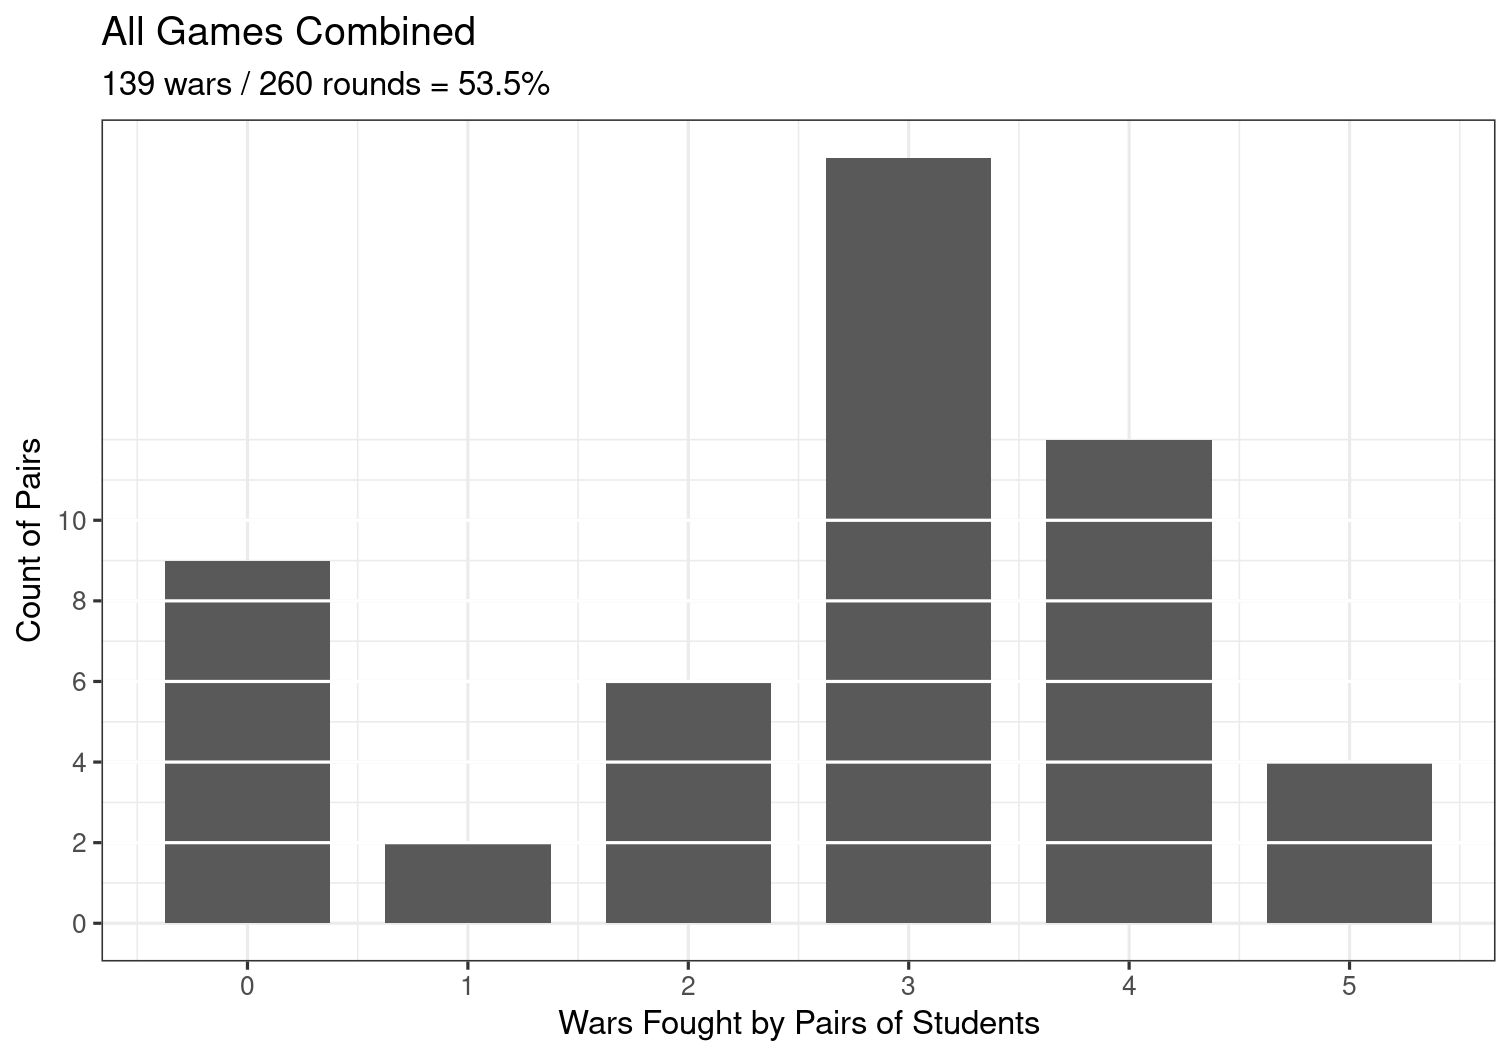
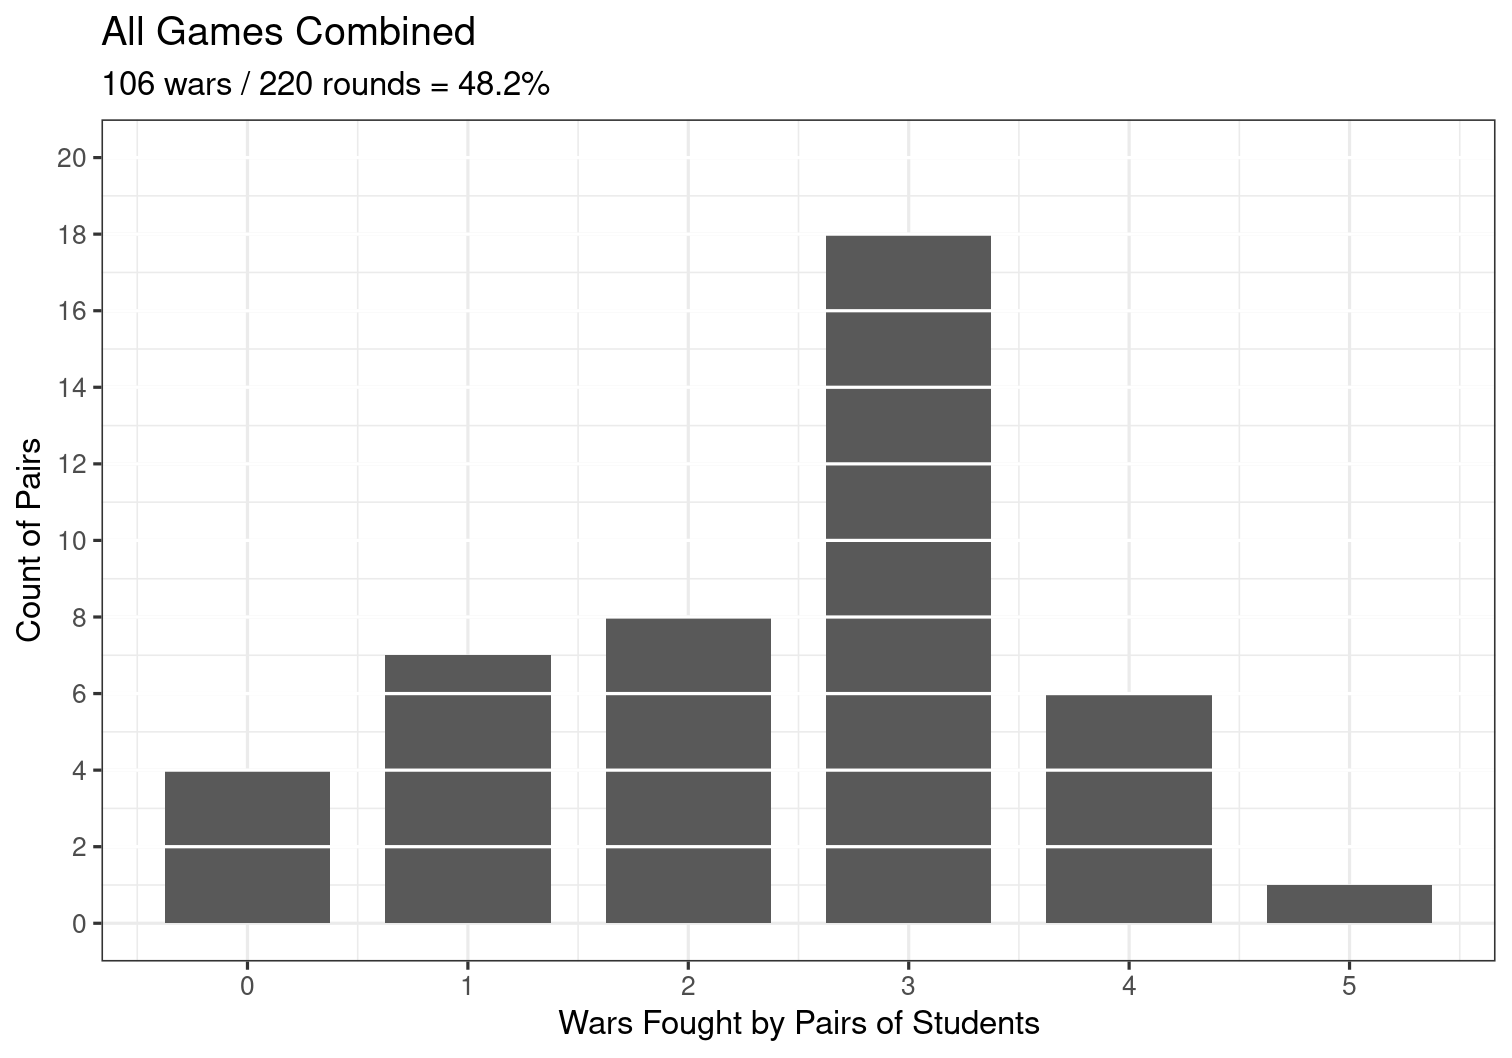
Update penny war results

diff --git a/06-2-Bargaining_Model_War.html b/06-2-Bargaining_Model_War.html
@@ -82,13 +82,13 @@ Here are the overall results from our simulation.
 
 ### So, what do we see here in overall results?
 
-- 9 pairs fought zero wars in their five rounds together.
+- 4 pairs fought zero wars in their five rounds together.
 
-- 4 pairs fought in all five rounds they played together.
+- 1 pairs fought in all five rounds they played together.
 
-- Out of 52 pairings and 260 possible conflicts we observed 139 wars.
+- Out of 44 pairings and 220 possible conflicts we observed 106 wars.
 
-- So, 53.5% of the time your conflicts led to war.
+- So, 48.2% of the time your conflicts led to war.
 
 
 
@@ -261,7 +261,7 @@ Here are the results for just version 1 of the game.
 # A tibble: 1 × 5
   Version  pairings  wars possible proportion
   &lt;chr&gt;       &lt;int&gt; &lt;dbl&gt;    &lt;dbl&gt;      &lt;dbl&gt;
-1 Version1       13    41       65      0.631
+1 Version1       11    34       55      0.618
 ```
 
 &lt;br&gt;
@@ -305,27 +305,27 @@ class: middle
 &lt;tbody&gt;
   &lt;tr&gt;
    &lt;td style="text-align:left;"&gt; High Uncertainty (All Hidden) &lt;/td&gt;
-   &lt;td style="text-align:right;"&gt; 41 &lt;/td&gt;
-   &lt;td style="text-align:right;"&gt; 65 &lt;/td&gt;
-   &lt;td style="text-align:right;"&gt; 0.6307692 &lt;/td&gt;
+   &lt;td style="text-align:right;"&gt; 34 &lt;/td&gt;
+   &lt;td style="text-align:right;"&gt; 55 &lt;/td&gt;
+   &lt;td style="text-align:right;"&gt; 0.62 &lt;/td&gt;
   &lt;/tr&gt;
   &lt;tr&gt;
    &lt;td style="text-align:left;"&gt; Medium Uncertainty (Most Hidden) &lt;/td&gt;
-   &lt;td style="text-align:right;"&gt; 45 &lt;/td&gt;
-   &lt;td style="text-align:right;"&gt; 65 &lt;/td&gt;
-   &lt;td style="text-align:right;"&gt; 0.6923077 &lt;/td&gt;
+   &lt;td style="text-align:right;"&gt; 35 &lt;/td&gt;
+   &lt;td style="text-align:right;"&gt; 55 &lt;/td&gt;
+   &lt;td style="text-align:right;"&gt; 0.64 &lt;/td&gt;
   &lt;/tr&gt;
   &lt;tr&gt;
    &lt;td style="text-align:left;"&gt; Low Uncertainty (One Hidden) &lt;/td&gt;
-   &lt;td style="text-align:right;"&gt; 39 &lt;/td&gt;
-   &lt;td style="text-align:right;"&gt; 65 &lt;/td&gt;
-   &lt;td style="text-align:right;"&gt; 0.6000000 &lt;/td&gt;
+   &lt;td style="text-align:right;"&gt; 23 &lt;/td&gt;
+   &lt;td style="text-align:right;"&gt; 55 &lt;/td&gt;
+   &lt;td style="text-align:right;"&gt; 0.42 &lt;/td&gt;
   &lt;/tr&gt;
   &lt;tr&gt;
    &lt;td style="text-align:left;"&gt; No Uncertainty &lt;/td&gt;
    &lt;td style="text-align:right;"&gt; 14 &lt;/td&gt;
-   &lt;td style="text-align:right;"&gt; 65 &lt;/td&gt;
-   &lt;td style="text-align:right;"&gt; 0.2153846 &lt;/td&gt;
+   &lt;td style="text-align:right;"&gt; 55 &lt;/td&gt;
+   &lt;td style="text-align:right;"&gt; 0.25 &lt;/td&gt;
   &lt;/tr&gt;
 &lt;/tbody&gt;
 &lt;/table&gt;
@@ -345,10 +345,10 @@ Now take a step back.
 # A tibble: 4 × 5
   Version  pairings  wars possible proportion
   &lt;chr&gt;       &lt;int&gt; &lt;dbl&gt;    &lt;dbl&gt;      &lt;dbl&gt;
-1 Version1       13    41       65      0.631
-2 Version2       13    45       65      0.692
-3 Version3       13    39       65      0.6  
-4 Version4       13    14       65      0.215
+1 Version1       11    34       55      0.618
+2 Version2       11    35       55      0.636
+3 Version3       11    23       55      0.418
+4 Version4       11    14       55      0.255
 ```
 
 &lt;br&gt;
